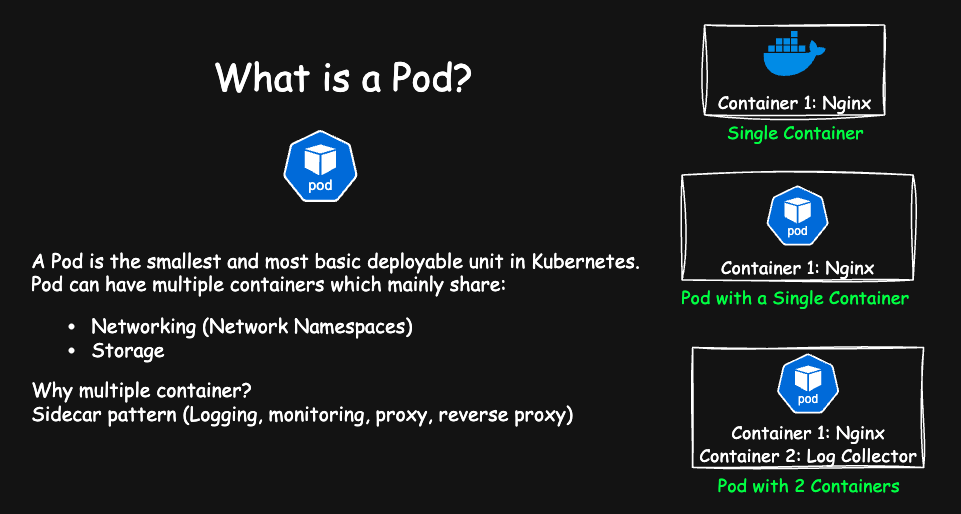
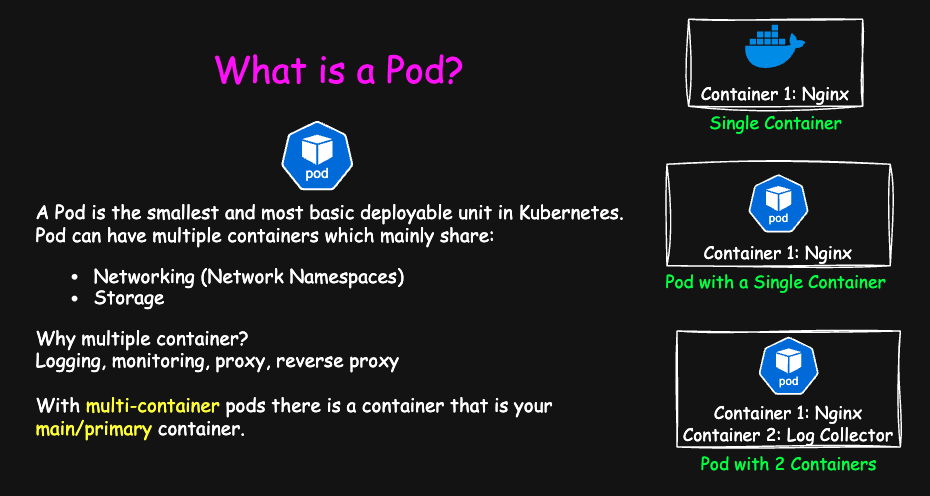
Updated Lecture 03

diff --git a/Lecture 03/README.md b/Lecture 03/README.md
@@ -1,0 +1,329 @@
+# Lecture 03: Hello Kubernetes! Kubernetes Architecture
+
+---
+
+## Challenges with Docker
+
+![Alt text](/images/3a.png)
+
+- **Auto-Scaling**: Docker lacks native support for automatic scaling of containers based on resource utilization or demand, requiring external orchestration tools like Kubernetes to manage dynamic scaling effectively.
+- **Load Balancing**: Docker does not offer built-in, sophisticated load-balancing mechanisms across multiple containers or hosts, making it reliant on third-party tools or manual configurations.
+- **Self-Healing**: Docker does not have inherent self-healing capabilities to restart failed containers or maintain application stability automatically, unlike Kubernetes.
+- **Rolling Updates/Rollbacks**: Docker alone cannot perform seamless rolling updates or rollbacks for applications, which is essential for maintaining zero downtime during updates or reverting changes safely.
+
+---
+
+## Hello Kubernetes!!
+
+![Alt text](/images/3b.png)
+
+###  Why Kubernetes?
+- Kubernetes is not just another container orchestration tool – it is the industry-standard for managing containers at scale.
+- While Docker helps package and run individual containers, Kubernetes orchestrates and manages multiple containers across many machines.
+- Kubernetes automates deployment, scaling, and operations of containerized applications, enabling high availability, load balancing, and self-healing.
+
+## Kubernetes vs Docker Swarm vs Docker Compose
+
+| **Feature**           | **Kubernetes**                                                                 | **Docker Swarm**                                                  | **Docker Compose**                                                            |
+|------------------------|-------------------------------------------------------------------------------|-------------------------------------------------------------------|--------------------------------------------------------------------------------|
+| **Scope**             | Orchestrates containerized applications across a **cluster of machines**, enabling automated deployment, scaling, and management | Primarily designed for managing Docker containers within a **single host** or a **small cluster**, offering basic orchestration capabilities | Used to define and run **multi-container applications** on a **single host** via simple YAML configuration |
+| **Complexity**        | Highly complex due to features like resource quotas, custom schedulers, and advanced networking | Relatively simpler than Kubernetes, focusing on **basic clustering** and orchestration of Docker containers | Simplest of the three, meant for **local development** and straightforward multi-container setups |
+| **Scalability**       | Designed for **large-scale, production-grade deployments**, supporting dynamic scaling across hundreds of nodes | Supports **moderate scaling**, ideal for small-to-medium-sized deployments but limited for large infrastructures | **Limited scalability**, best suited for running containers on a **single host** |
+| **Features**          | Includes features like **auto-scaling**, **self-healing**, service discovery, load balancing, secrets management, and rolling updates | Offers core features like **service discovery**, **manual scaling**, and rolling updates, but lacks advanced tools like monitoring or logging | Focuses on defining services, networks, and volumes for multi-container applications in a **local environment** |
+| **Learning Curve**    | Steep due to extensive configuration options, need for understanding YAML manifests, and troubleshooting at scale | Easier to learn than Kubernetes, requiring knowledge of Docker basics and basic cluster setup | Very easy to learn and use, with minimal configuration required |
+| **Community and Ecosystem** | Large and **active community**, with tools like Helm, Prometheus, and Istio enriching its ecosystem | Smaller but growing community, primarily focused on Docker tooling | Large community due to its widespread use among **developers for local testing** |
+| **Use Cases**         | Best for **production-grade deployments**, handling complex microservices architectures, and large-scale systems | Suitable for smaller **production-grade applications** or **testing clusters** of Docker containers | Ideal for **local development**, testing, and small, **non-critical deployments** |
+| **State Management**  | Offers **stateful workloads** using StatefulSets, Persistent Volumes, and ConfigMaps for managing data | Lacks built-in support for stateful applications but can use external storage | Designed for **stateless container configurations**, but volumes can be used for data persistence |
+| **Networking**        | Advanced networking features like **ClusterIP**, **NodePort**, and **Ingress controllers**, offering granular control | Basic networking, offering **internal and external networks** for container communication | Minimal networking support for defining simple service-to-service communication |
+| **Installation and Setup** | Installation can be complex, requiring tools like `kubectl`, kubeadm, or managed services (e.g., EKS, GKE, AKS) | Straightforward installation, only requiring Docker to be configured in Swarm mode | Extremely simple, just requiring Docker Compose YAML files to define configurations |
+| **Fault Tolerance**   | Highly fault-tolerant with automatic pod rescheduling and rolling updates      | Moderate fault tolerance with leader election and container restarts | Very limited fault tolerance; typically used for development environments rather than production |
+
+### Key pointers covering the "Characteristics" we discussed?
+
+| Characteristic | Kubernetes | Docker Swarm | Docker Compose |
+|---|---|---|---|
+| **Orchestration** | Yes (multi-host, distributed) | Yes (multi-host, within a single Swarm cluster) | No (single-host) |
+| **Scaling** | Automatic and manual | Manual and limited automatic | Manual |
+| **Load Balancing** | Built-in and advanced | Basic (through routing mesh) | Not built-in |
+| **Self-Healing** | Yes (robust) | Limited (basic container restarts) | No |
+| **Multi-Host** | Yes (across a cluster of machines) | Yes (within a single Swarm cluster) | No |
+| **Networking** | Advanced (service mesh, network policies) | Basic (overlay network) | Limited (uses Docker's default networking) |
+| **Use Case** | Large-scale production deployments, complex microservices | Smaller deployments, managing a cluster of Docker hosts | Local development, testing, simple deployments |
+
+---
+
+## What is Pod?
+
+![Alt text](/images/3c.png)
+
+### What are **Network namespaces**?
+- **Network namespaces** in Kubernetes provide an isolated network environment for each Pod. Each Pod has its own unique network namespace, which means it has its own IP address, network interfaces, and routing tables.
+- All containers within a Pod share the same network namespace, meaning they can communicate with each other using **localhost** and have direct access to each other’s ports.
+- This isolation ensures that Pods can communicate with each other using their internal IPs, but also keeps them separated from other Pods' networks within the cluster.
+
+---
+
+## What is a Deployment?
+![Alt text](/images/3d.png)
+
+
+![Alt text](/images/3h.png)
+- **Deployments** wrap **ReplicaSets** to manage scaling and updates. A Deployment ensures that the desired number of Pods are running and takes care of versioning and rolling updates.
+- **ReplicaSets** wrap **Pods** by maintaining a stable set of replica Pods and ensuring that the specified number of Pods are running at all times, even in case of Pod failure.
+- **Pods** wrap **Containers**. A Pod is the smallest deployable unit in Kubernetes, and it contains one or more containers that share the same network namespace and storage volumes.
+
+---
+
+# Kubernetes Architecture
+
+![Alt text](/images/3e.png)
+
+Kubernetes operates on a master-worker architecture, where:
+
+### Control Plane
+- **Role**: This is the brain of the cluster, responsible for managing and orchestrating all the worker nodes.
+- **Description**: It's a set of core components that run on a separate set of machines.
+
+### Worker Nodes
+- **Role**: These are the machines where your applications actually run.
+- **Description**: They execute the instructions received from the control plane.
+
+---
+
+## Control Plane Components
+
+1. **etcd**  
+   - A distributed key-value store that stores all the cluster's configuration data.
+
+2. **API Server**  
+   - The front-end for the Kubernetes control plane.  
+   - Exposes the Kubernetes API, allowing users and tools to interact with the cluster.
+
+3. **Scheduler**  
+   - Assigns Pods to worker nodes based on resource availability and other constraints.
+
+4. **Controller Manager**  
+   - Implements control loops that ensure the desired state of the cluster is maintained.  
+   - Handles tasks like replication, scaling, and garbage collection.
+
+5. **Cloud Controller Manager (CCM)**
+   - Integrates Kubernetes with the cloud provider.
+   - It manages cloud-specific resources and interacts with the cloud provider's API.
+---
+## Data Plane Components
+
+1. **Kubelet**  
+   - An agent that runs on each worker node.  
+   - Communicates with the control plane and ensures that containers are running as expected.
+
+2. **Kube-proxy**  
+   - A network proxy that runs on each worker node.  
+   - Handles network routing and service discovery within the cluster.
+
+3. **Container Runtime**  
+   - The software responsible for running containers on the worker nodes (e.g., containerd, CRI-O, Podman, Rocket).
+---
+## Control Plane vs Data Plane
+
+| **Feature**       | **Control Plane**                                      | **Data Plane**                            |
+|--------------------|-------------------------------------------------------|-------------------------------------------|
+| **Responsibility** | Manages the cluster                                   | Runs applications                         |
+| **Components**     | etcd, API Server, Scheduler, Controller Manager, Cloud Controller Manager | Kubelet, Kube-proxy, Container Runtime    |
+| **Location**       | Typically on dedicated machines or in a highly available configuration | On each worker node                       |
+| **Focus**          | Orchestration, management, and control               | Running applications and managing resources |
+
+---
+
+## **Kubernetes: Python Frontend, Redis Service, kube-proxy, and CNI Interaction**
+
+1. **Python Frontend to Redis Service:**
+    * The Python frontend attempts to connect to the Redis Service using the Service’s DNS name. DNS name to IP translation is primarily performed by CoreDNS, which replaced kube-DNS as the default DNS server within Kubernetes.
+
+2. **kube-proxy’s Role:**
+    * **Interception:** kube-proxy on the node where the Python frontend Pod is running intercepts the outgoing network traffic destined for the Redis Service’s ClusterIP.
+    * **Service-to-Pod Mapping:** kube-proxy determines which specific Redis Pod should handle the request by referring to the Service’s Endpoint object, which contains the IP addresses of all healthy backend Pods. kube-proxy performs:
+        * **Load Balancing:** It selects a Redis Pod based on the load balancing strategy defined for the Service (e.g., round-robin or IPVS-based algorithms).
+        * **Health Checks:** Ensures that the Redis Pod selected for routing is healthy and available to handle requests.
+    * **Traffic Redirection:** kube-proxy redirects the traffic from the Python frontend Pod to the chosen Redis Pod by modifying the packet’s destination IP and port.
+
+3. **CNI’s Role:**
+    * **Network Setup:** CNI ensures that all Pods, including the Python frontend and Redis Pods, are assigned unique IP addresses within the cluster and can communicate seamlessly.
+    * **Traffic Routing:**
+        * **From Python Frontend to Redis Pod:** CNI ensures that the traffic routed by kube-proxy can traverse the cluster’s network infrastructure correctly to reach the selected Redis Pod.
+        * **Pod-to-Pod Communication:** The CNI plugin implements the network routes and rules that enable communication between Pods across different nodes.
+
+4. **Redis Pod Response:**
+    * The selected Redis Pod processes the request and sends the response directly back to the originating Python frontend Pod.
+    * **Direct Return:** Kubernetes networking ensures the return traffic takes the reverse path directly, avoiding kube-proxy, because the connection has already been established.
+
+5. **Return Path:**
+    * The response traffic from the Redis Pod is sent directly to the Python frontend Pod, using the same network setup provided by CNI.
+    * **Direct Communication:** Since the communication is already established, kube-proxy is not involved in the return path.
+
+**Key Roles in This Interaction:**
+
+* **CNI (Container Network Interface):**
+    * Provides the fundamental networking infrastructure, including IP address assignment, routing, and connectivity for all Pods in the cluster.
+    * Ensures traffic between Pods on the same or different nodes is routed correctly through the cluster network.
+
+* **kube-proxy:**
+    * Acts as a traffic director for requests made to Services.
+    * Implements the routing and load-balancing logic for traffic sent to the Redis Service, ensuring requests are forwarded to a healthy Redis Pod.
+
+* **Redis Service:**
+    * Serves as a stable abstraction layer, hiding the dynamic nature of Pod IP addresses from the Python frontend.
+    * Provides a consistent entry point (ClusterIP or DNS) for communication with the Redis deployment and handles load balancing via kube-proxy.
+
+**Analogy:**
+> Think of **CNI** as the **roads and highways** that make sure all cars (packets) can reach anywhere.
+> And **kube-proxy** as the **navigation system** (like Google Maps) that decides *which path a packet should take* to reach the correct backend pod behind a service.
+
+---
+
+## Example Flow: Communication Between Pods
+
+Here’s an example of how two Pods (Python frontend and Redis) communicate in a Kubernetes cluster.
+
+![Alt text](/images/3f.png)
+
+### Step-by-Step Flow:
+
+1. **Python Frontend Pod Sends Request:**
+   - The **Python frontend Pod** sends a request to the **Redis service** (e.g., `redis-service:6379`).
+
+2. **kube-proxy Intercepts Traffic:**
+   - **kube-proxy** intercepts the traffic and looks up the **Redis Service’s endpoints** to find a healthy Redis Pod.
+   
+3. **Traffic Forwarded to Redis Pod:**
+   - After finding a healthy Redis Pod, **kube-proxy** forwards the request to that **Redis Pod**.
+
+4. **Redis Pod Processes the Request:**
+   - The **Redis Pod** processes the request and sends the response directly back to the **Python frontend Pod**.
+
+This process ensures seamless communication between services in the Kubernetes cluster, with **kube-proxy** handling the routing of traffic to the appropriate Pods.
+
+**Additional Considerations:**
+
+* **CNI Plugins:** Some advanced CNI plugins (e.g., Calico, Cilium) can offload service-to-pod routing directly, potentially reducing kube-proxy’s role.
+* **Service Type Impact:** Depending on the Service type (e.g., ClusterIP, NodePort, or LoadBalancer), the traffic path and kube-proxy’s role might differ slightly. We will discuss **Service Types** in detail in future lessons.
+
+___
+
+# **Kubernetes Deployment Workflow**
+
+![Alt text](/images/3g.png)
+
+This process outlines the steps that occur when you apply a Kubernetes Deployment, from creation to Pod scheduling and running.
+
+## **1. User Initiates Deployment Creation**
+- **Command**:  
+  The user runs `kubectl apply -f python-frontend-deployment.yaml` to create a new Deployment.
+
+- **kubectl Action**:  
+  - Validates the YAML file for:
+    - **Syntax** (e.g., proper formatting, indentation).
+    - **Basic Kubernetes schema correctness** (e.g., valid API versions, resource definitions).
+  - Sends the validated Deployment object to the **API Server**.
+---
+## **2. API Server Actions**
+The API Server receives the validated Deployment object and performs the following tasks:
+
+1. **Authentication and Authorization**:  
+   Verifies that the user has the correct permissions to create the Deployment.
+
+2. **Validation**:  
+   Ensures the Deployment object conforms to the complete Kubernetes schema.
+
+3. **Storage**:  
+   - Stores the desired state of the Deployment in **etcd** (the cluster’s database).  
+     *This includes details such as the Deployment's metadata, desired number of Pods, and Pod template.*
+
+4. **Response**:  
+   - Returns a success message (e.g., *"deployment created"*) to the user.
+---
+## **3. Deployment Controller Workflow**
+The **Deployment Controller** is part of the Controller Manager and ensures that the desired number of Pods are running in your cluster.
+
+### **How It Works**
+1. The Deployment Controller continuously watches the API Server for any changes to Deployment objects.
+2. It compares the **desired state** (e.g., number of Pods defined in the Deployment) with the **actual state** (number of Pods currently running in the cluster).
+
+### **What Happens When Desired State Differs?**
+If the actual number of Pods doesn’t match the desired state:
+
+1. **ReplicaSet Creation**:  
+   - The Deployment Controller instructs the API Server to create a **ReplicaSet object**.  
+   - The API Server **stores the ReplicaSet object** in **etcd**.
+
+2. **Pod Creation**:
+
+   - The **ReplicaSet Controller** monitors the **ReplicaSet object** via the **API Server** (not directly in etcd).
+   - If Pods are needed (e.g., scaling or Pod failure):
+     - The ReplicaSet Controller instructs the **API Server** to create the required **Pod objects**.
+     - The **API Server** stores the new **Pod objects** in **etcd** (the cluster’s database).
+   - **Note**:
+     - At this stage, only the **Pod objects** are created and stored in etcd.
+     - The actual **containers** inside these Pods will be created later when the **Kubelet** starts managing the Pods on the assigned nodes.
+
+3. **Status Update**:  
+   - The Deployment Controller updates the **Deployment object** in the API Server to reflect the current state, including:
+     - The number of **available Pods**: These are Pods that have been created but might not be running yet.
+     - The number of **ready Pods**: These are Pods that are up and running, and their containers have passed health checks. A Pod is considered "ready" only when all of its containers are running and healthy.
+---
+
+## **4. Scheduler's Role**
+The Scheduler is responsible for assigning unscheduled Pods (Pods without a `nodeName`) to appropriate nodes.
+
+### **How It Works**
+1. The Scheduler watches the API Server for Pod objects with no `nodeName`.
+2. For each unscheduled Pod:
+   - The Scheduler selects a suitable node based on:
+     - **Resource availability** (e.g., CPU, memory).
+     - **Node affinities**.
+     - **Taints and tolerations**.
+3. The Scheduler updates the **Pod object** in the API Server, adding the `nodeName` to indicate where the Pod will run.
+4. The updated Pod object is stored in etcd via the **API Server**.
+---
+## **5. API Server Updates the Pod Status**
+- The API Server receives the node selection from the Scheduler.  
+- It updates the **Pod object** in **etcd** with the `nodeName` to indicate the assigned node.
+
+---
+## **6. Kubelet's Role**
+The **Kubelet** on the assigned node monitors the API Server for changes to Pod objects.
+
+### **How It Works**
+1. The Kubelet detects the new Pod scheduled to its node by watching the **API Server**.
+2. The Kubelet retrieves the **Pod object** from the **API Server**, which includes details about:
+   - Container specifications.
+   - Network and volume configurations.
+
+### **Kubelet Actions**
+1. **Container Runtime Interface (CRI)**:  
+   The Kubelet interacts with the container runtime (e.g., `containerd`, `CRI-O`) to:
+   - **Pull container images** from the registry.
+   - **Configure networking** using the CNI plugin.
+   - **Mount volumes** specified in the Pod definition.
+   - **Create and start containers** inside the Pod.
+
+2. **Health Monitoring**:  
+   - The Kubelet continuously monitors the health of the containers and updates their status in the API Server.  
+   - These updates are stored in **etcd**.
+---
+## **7. Pod Running**
+1. **Once the containers are running, the Pod is live on the assigned node.**  
+2. **Deployment Controller:**  
+   - **Manages the ReplicaSet**, ensuring it is configured to maintain the desired state.  
+   - **Does not directly monitor or recreate Pods**; this is the responsibility of the ReplicaSet Controller.  
+3. **ReplicaSet Controller:**  
+   - **Monitors the Pods via the API Server.**  
+   - If a **Pod fails or is terminated**, the ReplicaSet Controller detects the discrepancy and takes action to **recreate the missing Pod** to maintain the desired state.  
+4. **Key Points:**  
+   - The **Kubelet monitors the containers' health** and status on the assigned node.  
+   - It **reports the containers' running status** to the API Server.  
+   - The **API Server updates the Pod's status** in etcd to reflect the current state of the containers.  
+---
+
+### Additional Resources
+
+Kubernetes Documentation: [[Kubernetes Architecture](https://kubernetes.io/docs/concepts/architecture/)]
